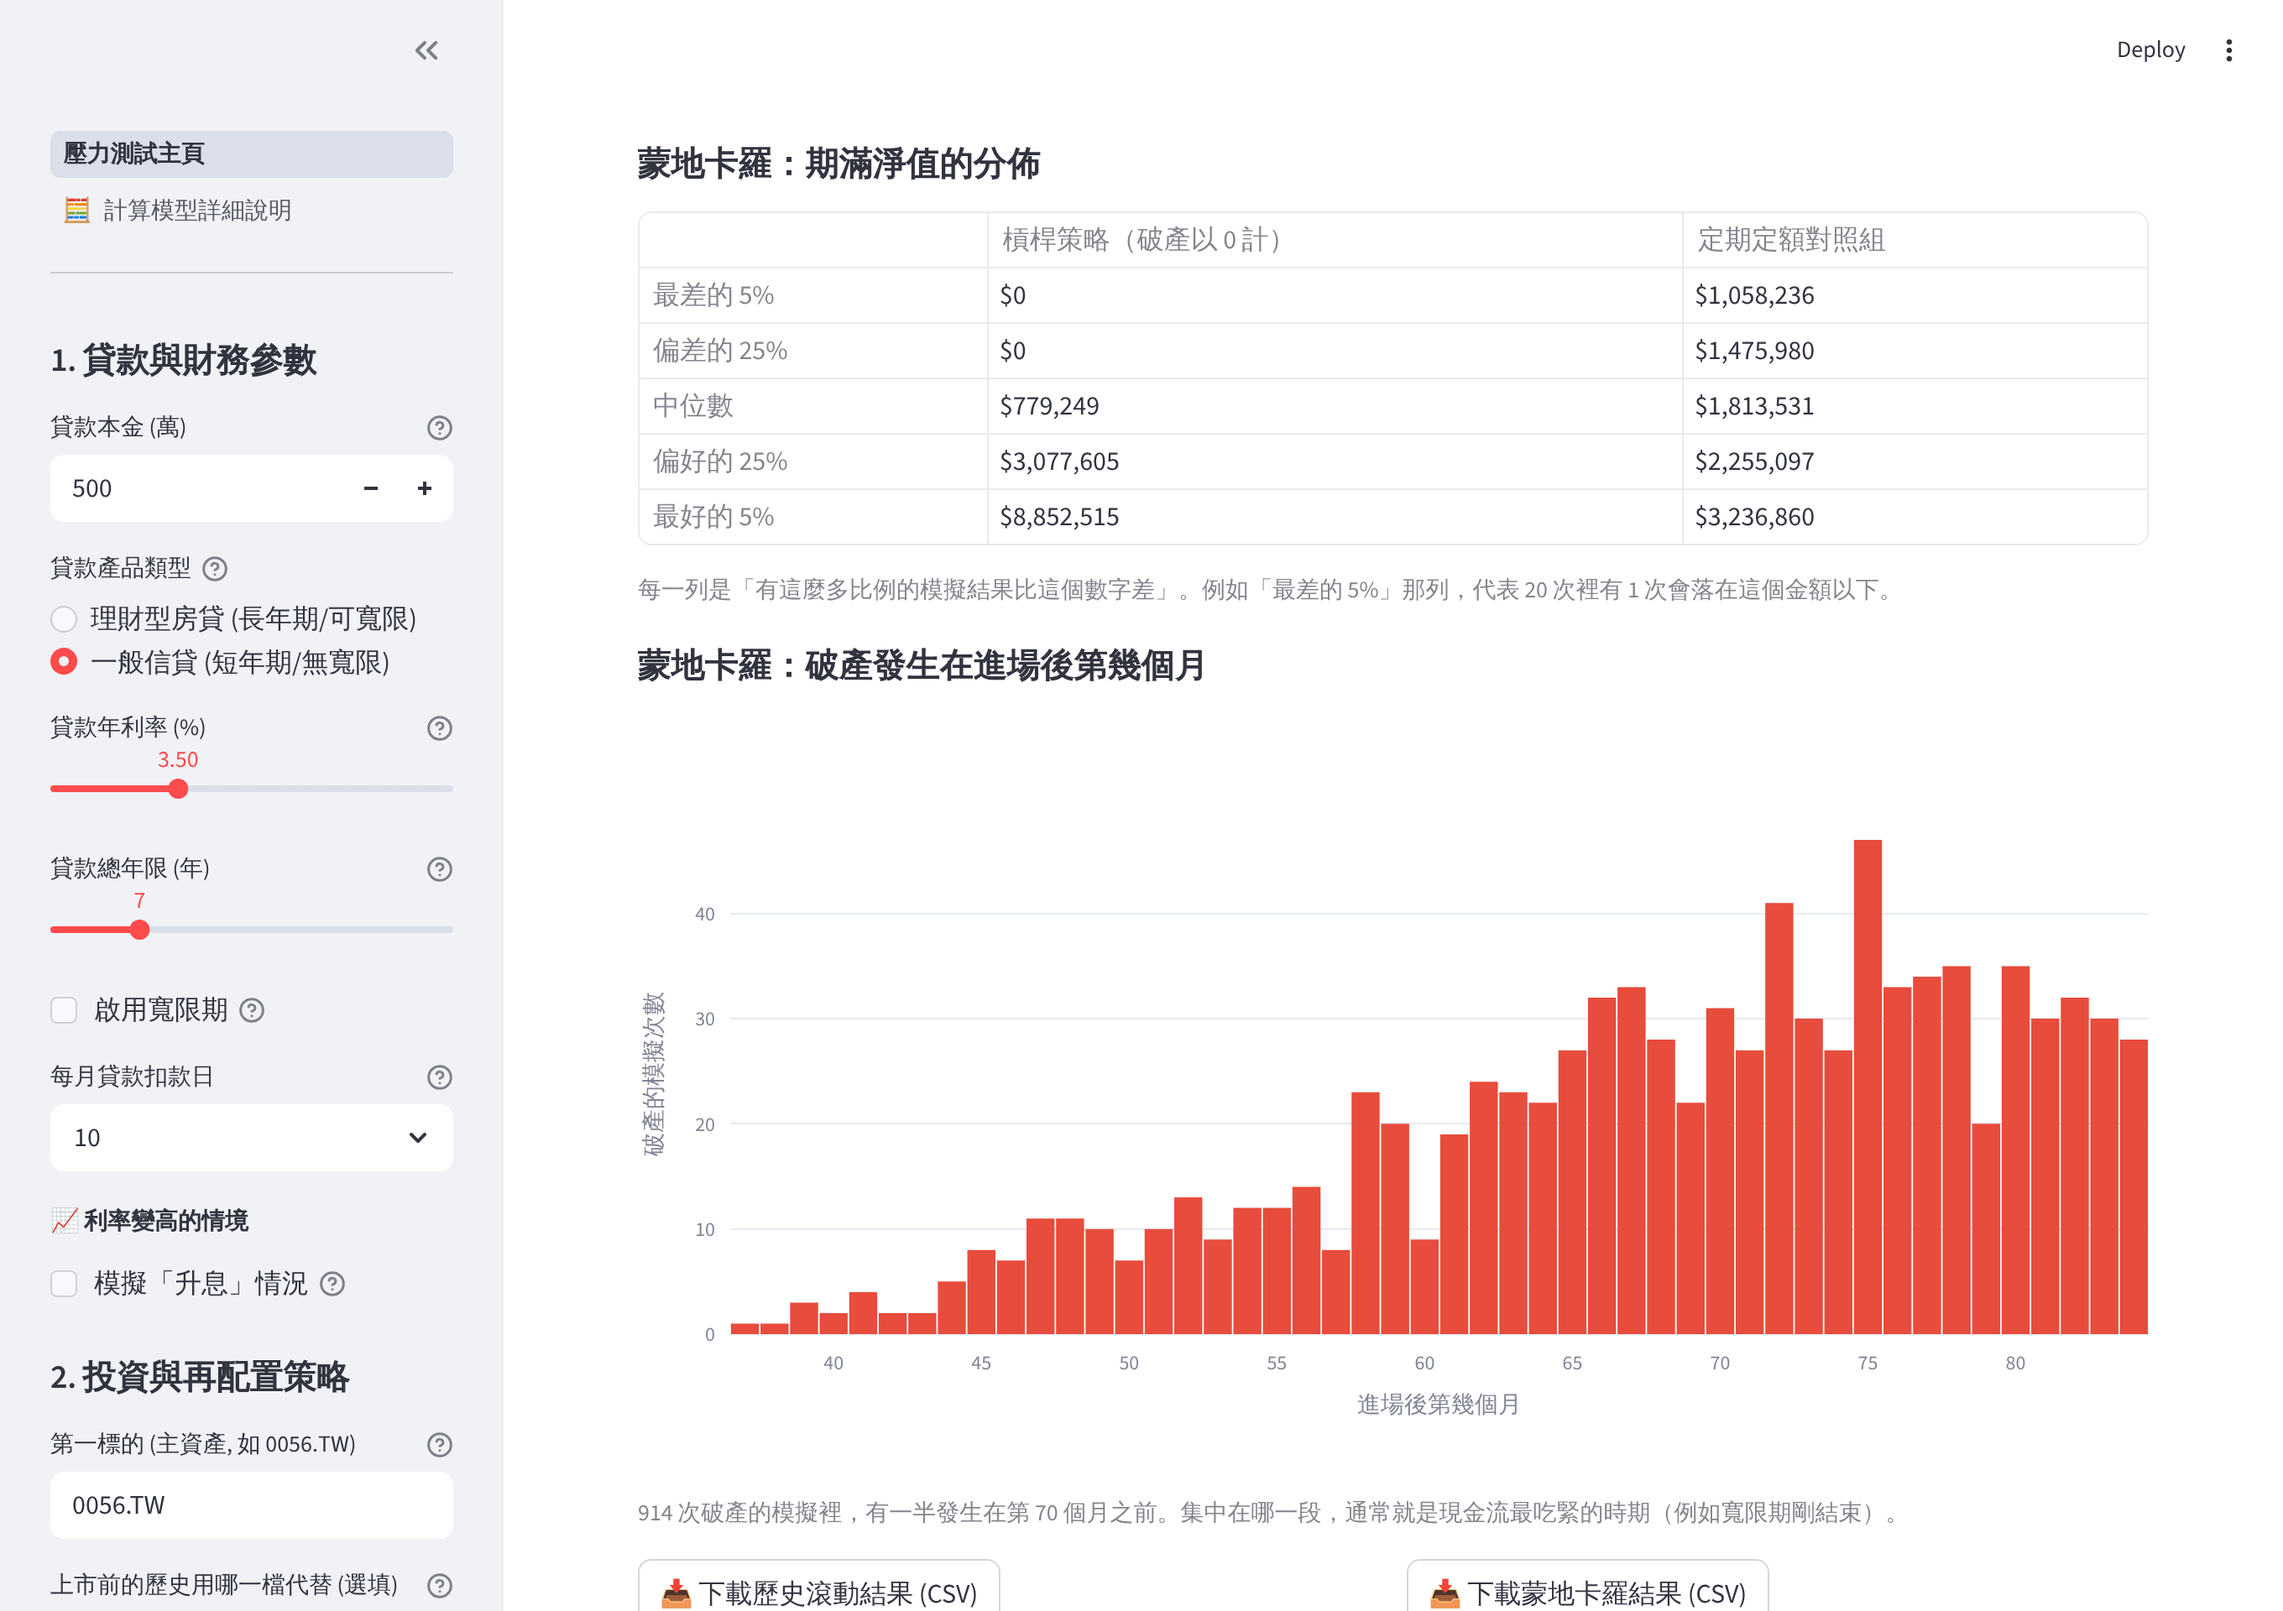
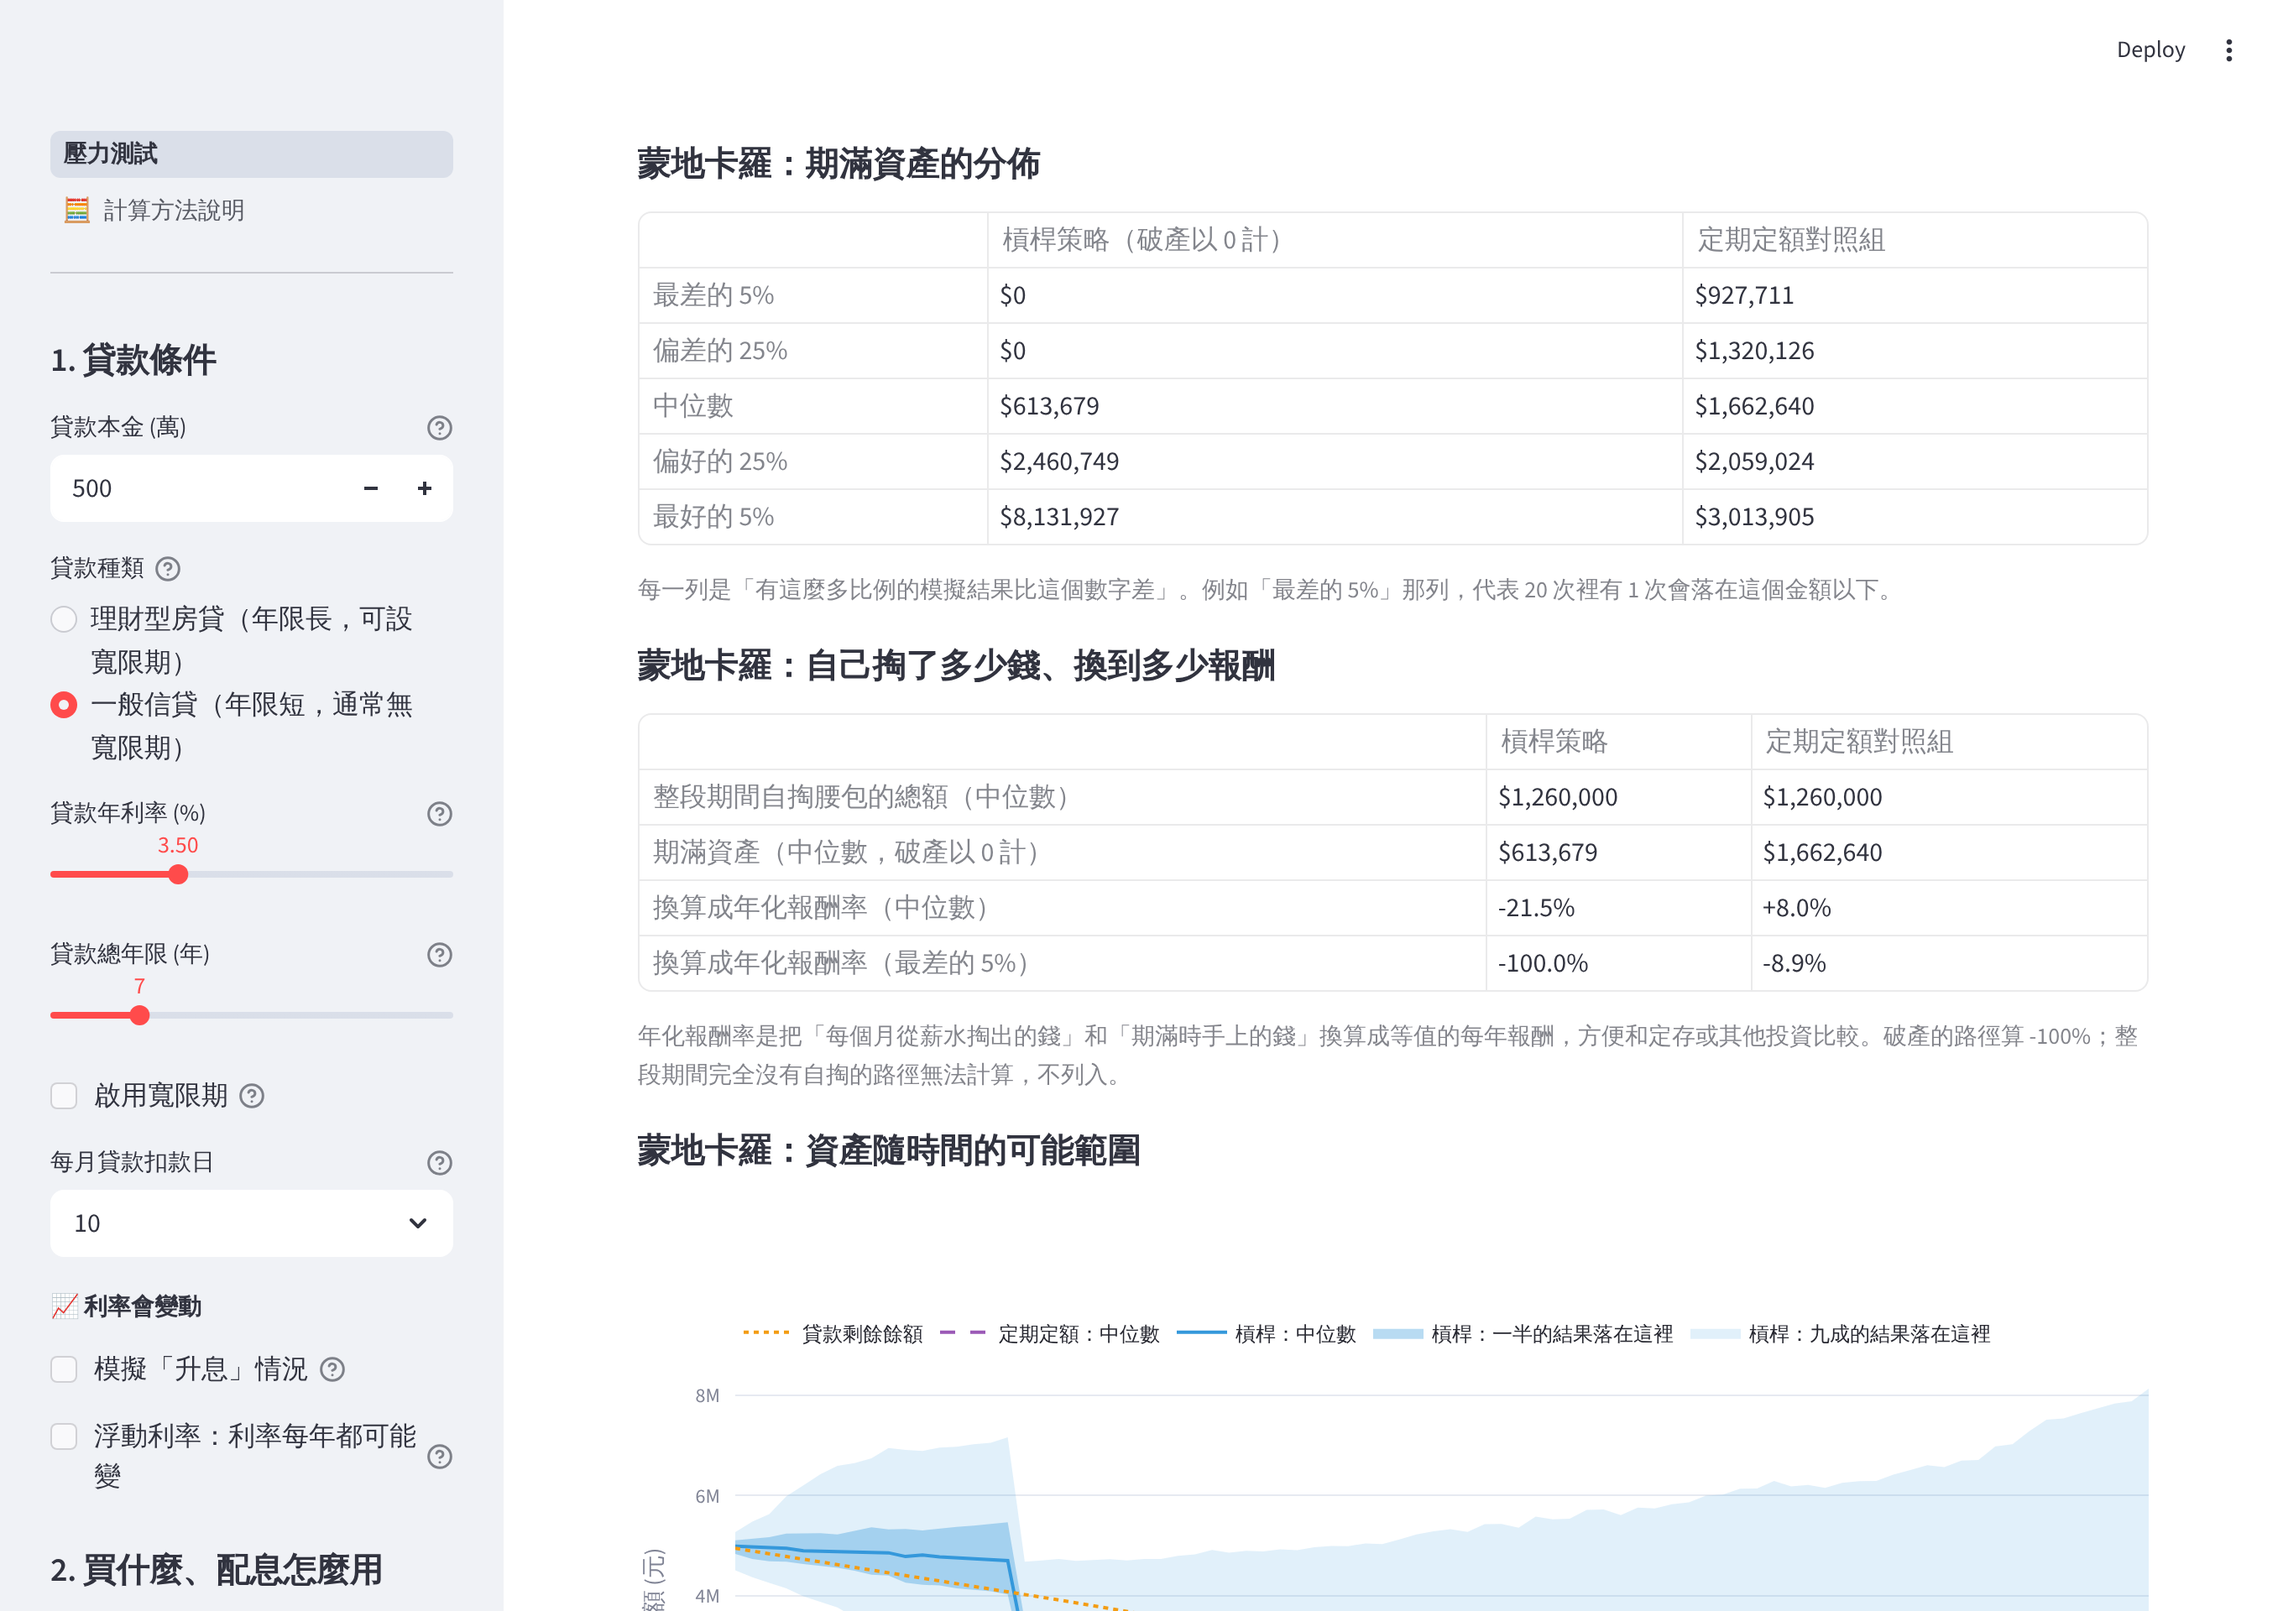
Sprint 2: safety margin on screen, plain wording, README refresh
The safety-margin section (largest loan, smallest monthly top-up, default
rate map) is built on the sprint 1 solver, follows the v40 design and
writes into the downloadable report. Wording across the app, help page,
report, CSV columns and file names is plain Chinese per the design's
glossary; share links from V39 keep working with unchanged numbers. The
README gets the new wording and screenshots.

Accepted by QA (95 acceptance tests, 427 tests in all) and reviewed against
the design by UI/UX after one round of fixes.

Claude-Session: https://claude.ai/code/session_01CintocfKHNCtdKQJB2AfRi

diff --git a/README.md b/README.md
@@ -4,7 +4,7 @@
 
 **🔗 線上試用：** https://etf-leverage-stress-test.streamlit.app　｜　[English README](README.en.md)
 
-![主畫面：貸款參數、每月應繳金額，以及歷史滾動與蒙地卡羅兩個引擎的破產率](docs/images/overview.png)
+![主畫面：貸款條件、每月應繳金額，以及歷史回測與蒙地卡羅模擬的破產機率](docs/images/overview.png)
 
 ---
 
@@ -23,33 +23,36 @@
 
 ## 主要功能
 
-- **雙引擎風險評估**
-  - 🅰 **歷史滾動 + 情境拼接**：以歷史每個月為進場點做確定性 What-If；資料不足的未來以指定劇本（如 2008 復刻）補齊。
-  - 🅱 **蒙地卡羅（Block Bootstrap）**：分段重抽歷史報酬、保留崩盤的連續性，模擬上千種未來並統計破產機率。
+- **兩種方法評估風險**
+  - 📜 **歷史回測**：把歷史上每個月都當成進場點，看「如果當年進場會怎樣」；真實資料不夠長的部分接上你選的假想未來（例如 2008 年那樣的崩盤）。
+  - 🎲 **蒙地卡羅模擬**：從歷史裡一段一段抽出來重新拼接（保留崩盤的連續性），模擬上千種可能的未來並統計破產機率。
+- **安全邊界**：反過來算「以目前其他設定，最多能借多少」「每月最少要能自掏多少」，破產機率才不會超過你能接受的上限（1%、5% 或 10%），並用一張「借多少 × 每月自掏多少」的破產機率地圖畫出安全範圍。
 - **真實負債模型**：本息平均攤還、寬限期後還款跳升、指定年份升息重算；也可以排定逐年的浮動利率，並讓蒙地卡羅加上隨機升降息。
 - **動態配息模型**：配息隨市場榮枯起伏（Dividend Beta），並設有崩盤保底機制；可設定每月、每季、每半年或每年發放。
 - **稅與費用**：證交稅、二代健保補充保費、股利所得稅、貸款開辦費，預設採台灣現行費率。
-- **還款資金瀑布**：本薪、配息池、緩衝金、變賣主標的、變賣第二標的，依你排的優先序動用，全部用完才判定破產；任何一項都可以排除。
+- **還款資金的動用順序**：薪水、存下來的配息、緩衝金、賣第一標的、賣第二標的，依你排的優先序動用，全部用完才判定破產；任何一項都可以排除。
 - **崩盤流動性折價**：大跌月份被迫賣股時額外計入賤賣損失。
 - **槓桿 ETF 的複利與波動耗損**：第二標的沒有真實資料的月份，以槓桿 ETF 的標準公式由第一標的推估，且不外推歷史上的超額報酬。
 - **較長的歷史**：第一標的上市不久時，可指定一檔性質相近的標的補上市前的歷史，讓回測涵蓋 2008 年這類空頭。
 - **資料檢查與修正**：自動還原行情來源沒處理的股票分割與配息單位、提示異常值，並列出修正了什麼；來源連不上時改用最近一次的存檔。詳見 [DATA_NOTES.md](DATA_NOTES.md)。
-- **DCA 對照組**：每條路徑同時跑定期定額，比較「一次重壓 vs 分批進場」。對照組每月投入的金額，預設等於槓桿策略當月實際從薪水掏出的錢，兩邊自掏腰包的總額相同。
-- **看得懂的結果**：破產率附白話說明與抽樣誤差，另有期滿淨值分佈、資產隨時間的可能範圍、自掏總額與年化報酬率、破產發生時間；
+- **定期定額（DCA）對照組**：每條路徑同時跑定期定額，比較「一次重壓 vs 分批進場」。對照組每月投入的金額，預設等於槓桿策略當月實際從薪水掏出的錢，兩邊自掏腰包的總額相同。
+- **看得懂的結果**：破產率附白話說明與抽樣誤差，另有期滿資產的分佈、資產隨時間的可能範圍、自掏總額與年化報酬率、破產發生時間；
   結果可下載 CSV，也可以下載一份包含設定、數字和圖表的 HTML 報告。
 - **分享連結**：網址列會自動帶著目前的所有設定，複製網址就能把同一組參數傳給別人；重新整理頁面也不會遺失設定。
 - 每個參數旁附白話問號說明，另有獨立頁面詳列公式與模型假設。
 
 ## 畫面
 
-| 歷史上每個進場月份的期滿結果 | 單一進場月份的逐月追蹤 |
-|---|---|
-| ![每個進場月份的期滿淨值長條圖，紅色為破產、斜線為拼接未來情境](docs/images/rolling-history.png) | ![資產淨值、DCA 對照組與貸款餘額的逐月走勢，以及每月還款的資金來源拆解](docs/images/ledger-trace.png) |
+![安全邊界：最多可以借多少、每月最少要自掏多少，以及借多少 × 每月自掏多少的破產機率地圖](docs/images/safety-limit.png)
 
-![蒙地卡羅期滿淨值的分佈表，以及破產發生在進場後第幾個月的直方圖](docs/images/distribution.png)
+| 歷史上每個進場月份的期滿結果 | 挑一個月份進場的逐月明細 |
+|---|---|
+| ![每個進場月份的期滿資產長條圖，紅色為破產、斜線為接上假想未來](docs/images/rolling-history.png) | ![資產、定期定額對照組與貸款餘額的逐月走勢，以及每月還款的錢從哪來](docs/images/ledger-trace.png) |
+
+![蒙地卡羅期滿資產的分佈表，以及破產發生在進場後第幾個月的直方圖](docs/images/distribution.png)
 
 上圖的設定可以直接用這個連結重現：
-`?a=0056.TW&salary=15000&swan=1&swan_m=18&swan_d=35&hc=1&m=2019-06`（接在網址後面）。
+`?a=0056.TW&salary=15000&swan=1&swan_m=18&swan_d=35&hc=1&m=2019-06`（接在網址後面；安全邊界要再按「計算安全邊界」）。
 
 ## 技術棧
 
@@ -89,10 +92,11 @@ streamlit run app.py
 
 | 檔案 | 內容 |
 |------|------|
-| `engine.py` | 模擬引擎：貸款排程、還款資金瀑布、歷史滾動與蒙地卡羅。只用 NumPy / pandas，不依賴 Streamlit，可以單獨匯入使用。 |
+| `engine.py` | 模擬引擎：貸款排程、還款資金的動用順序、歷史回測、蒙地卡羅模擬與安全邊界的求解。只用 NumPy / pandas，不依賴 Streamlit，可以單獨匯入使用。 |
 | `market_data.py` | 行情抓取、存檔備援、分割還原與異常檢查、月份對齊、上市前歷史回補。 |
 | `main_page.py` | 主頁畫面：收集參數、呼叫引擎、畫圖表。 |
 | `ui_state.py` | 輸入元件的預設值、上下限與網址同步。 |
+| `safety_limit.py` | 安全邊界區塊：搜尋範圍、結論句、破產機率地圖與報告內容。 |
 | `report.py` | 產生可下載的 HTML 報告。 |
 | `build_standalone.py` | 把整個 App 打包成單一 HTML 檔（`dist/`）。 |
 | `pages/1_Model_Details.py` | 公式與模型假設說明頁。 |

diff --git a/README.en.md b/README.en.md
@@ -31,6 +31,7 @@ The first month in which the payment cannot be covered, the strategy is **ruined
 - **Realistic loan model** — level amortisation, interest-only grace period with the payment jump afterwards, and a rate shock that recomputes the payment on the outstanding balance. A floating rate can follow a yearly schedule, with random moves on top in the Monte Carlo.
 - **Dividend model** — payouts rise and fall with the market (dividend beta), with a floor during crashes, paid monthly, quarterly, half-yearly or yearly.
 - **Taxes and fees** — transaction tax, the health-insurance levy on dividends, dividend income tax and a loan origination fee, defaulting to Taiwan's current rates.
+- **Safety margin** — works backwards: with everything else unchanged, the largest loan, or the smallest monthly top-up, that keeps the chance of default under a limit you pick (1%, 5% or 10%), plus a map of the default rate for loan size × monthly top-up.
 - **Repayment waterfall** — salary, dividend pool, cash buffer, selling the main asset and selling the second asset are drawn in the order you choose, and ruin is declared only when all are spent; any of them can be left out.
 - **Fire-sale discount** — forced selling in a crash month costs extra.
 - **Leveraged-ETF compounding and volatility decay** — months in which the second asset has no real data are modelled from the first with the standard leveraged-fund formula, without projecting any excess return it earned in the sample.
@@ -43,6 +44,8 @@ The first month in which the payment cannot be covered, the strategy is **ruined
 - Every input has a plain-language tooltip, and a separate page lists the formulas and model assumptions.
 
 ## Screens
+
+![Safety margin: the largest loan, the smallest monthly top-up, and the default-rate map of loan size × monthly top-up](docs/images/safety-limit.png)
 
 | Outcome for every historical entry month | Month-by-month ledger for one entry month |
 |---|---|
@@ -95,6 +98,7 @@ The app opens at `http://localhost:8501`.
 | `market_data.py` | Fetching with snapshot fallback, split repair and outlier checks, month alignment, pre-listing backfill. |
 | `main_page.py` | The main page: collects inputs, calls the engine, draws the charts. |
 | `ui_state.py` | Input defaults, bounds and URL synchronisation. |
+| `safety_limit.py` | The safety-margin section: search ranges, conclusions, the default-rate map and its report content. |
 | `report.py` | Builds the downloadable HTML report. |
 | `build_standalone.py` | Packs the whole app into one HTML file (`dist/`). |
 | `pages/1_Model_Details.py` | Formulas and model assumptions. |

diff --git a/CHANGELOG.md b/CHANGELOG.md
@@ -2,6 +2,17 @@
 
 版本號寫在 `version.py`。
 
+## 尚未發布
+
+計算方式沒有改變，同樣的設定得到的數字和 V39 相同。
+
+- **安全邊界**：新增「最多能借多少」「每月最少要自掏多少」的反向求解，可選擇能接受的破產機率上限（1%、5%、10%），
+  並畫出「借多少 × 每月自掏多少」的破產機率地圖，標出目前的設定。按按鈕才計算，結果會寫進下載的報告；說明頁新增第十一節。
+- **白話用語**：標題改為「借錢投資 ETF 壓力測試」；兩種方法統一稱「歷史回測」與「蒙地卡羅模擬」；
+  「期滿淨值」改為「期滿資產」；還款來源、圖表、表格、CSV 欄名與下載檔名一併改成白話，不再出現「宇宙」「Accounting Trace」等用語。
+  舊的分享連結照常運作。
+- 貸款種類的選項改為「理財型房貸（年限長，可設寬限期）」「一般信貸（年限短，通常無寬限期）」。
+
 ## V39（2026-11-17）
 
 計算方式沒有改變，同樣的設定得到的數字和 V38 相同。
